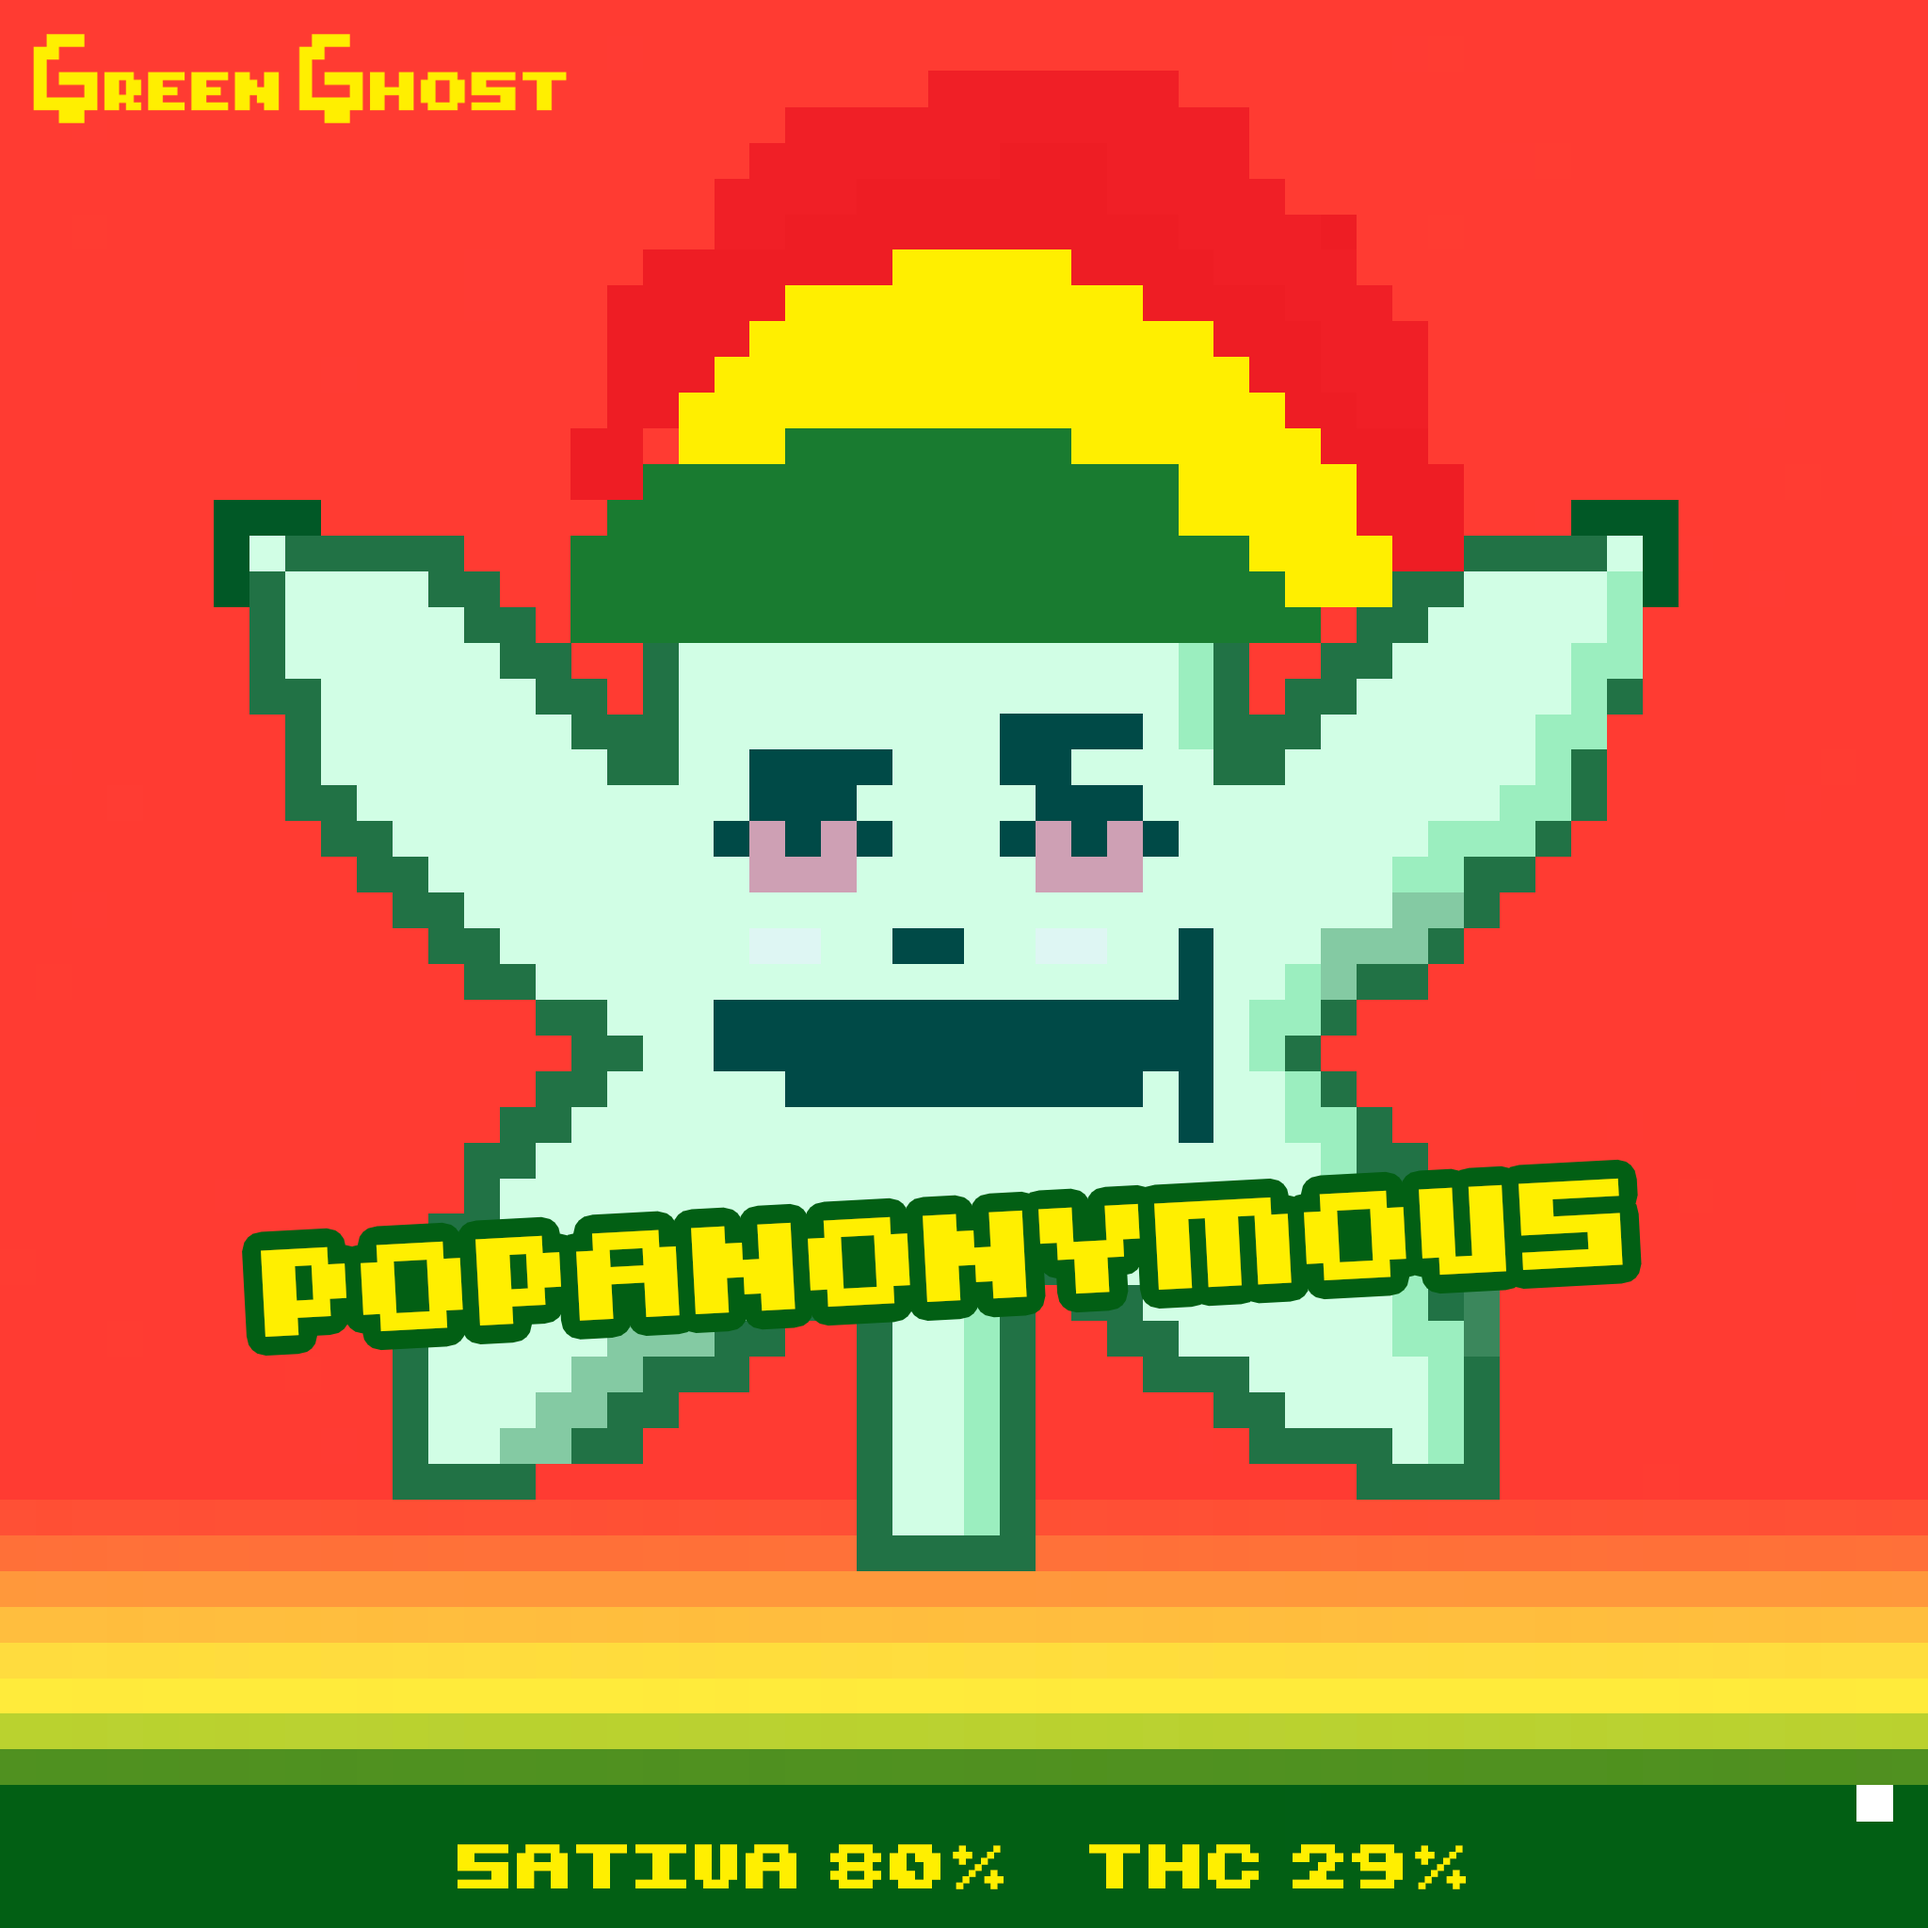
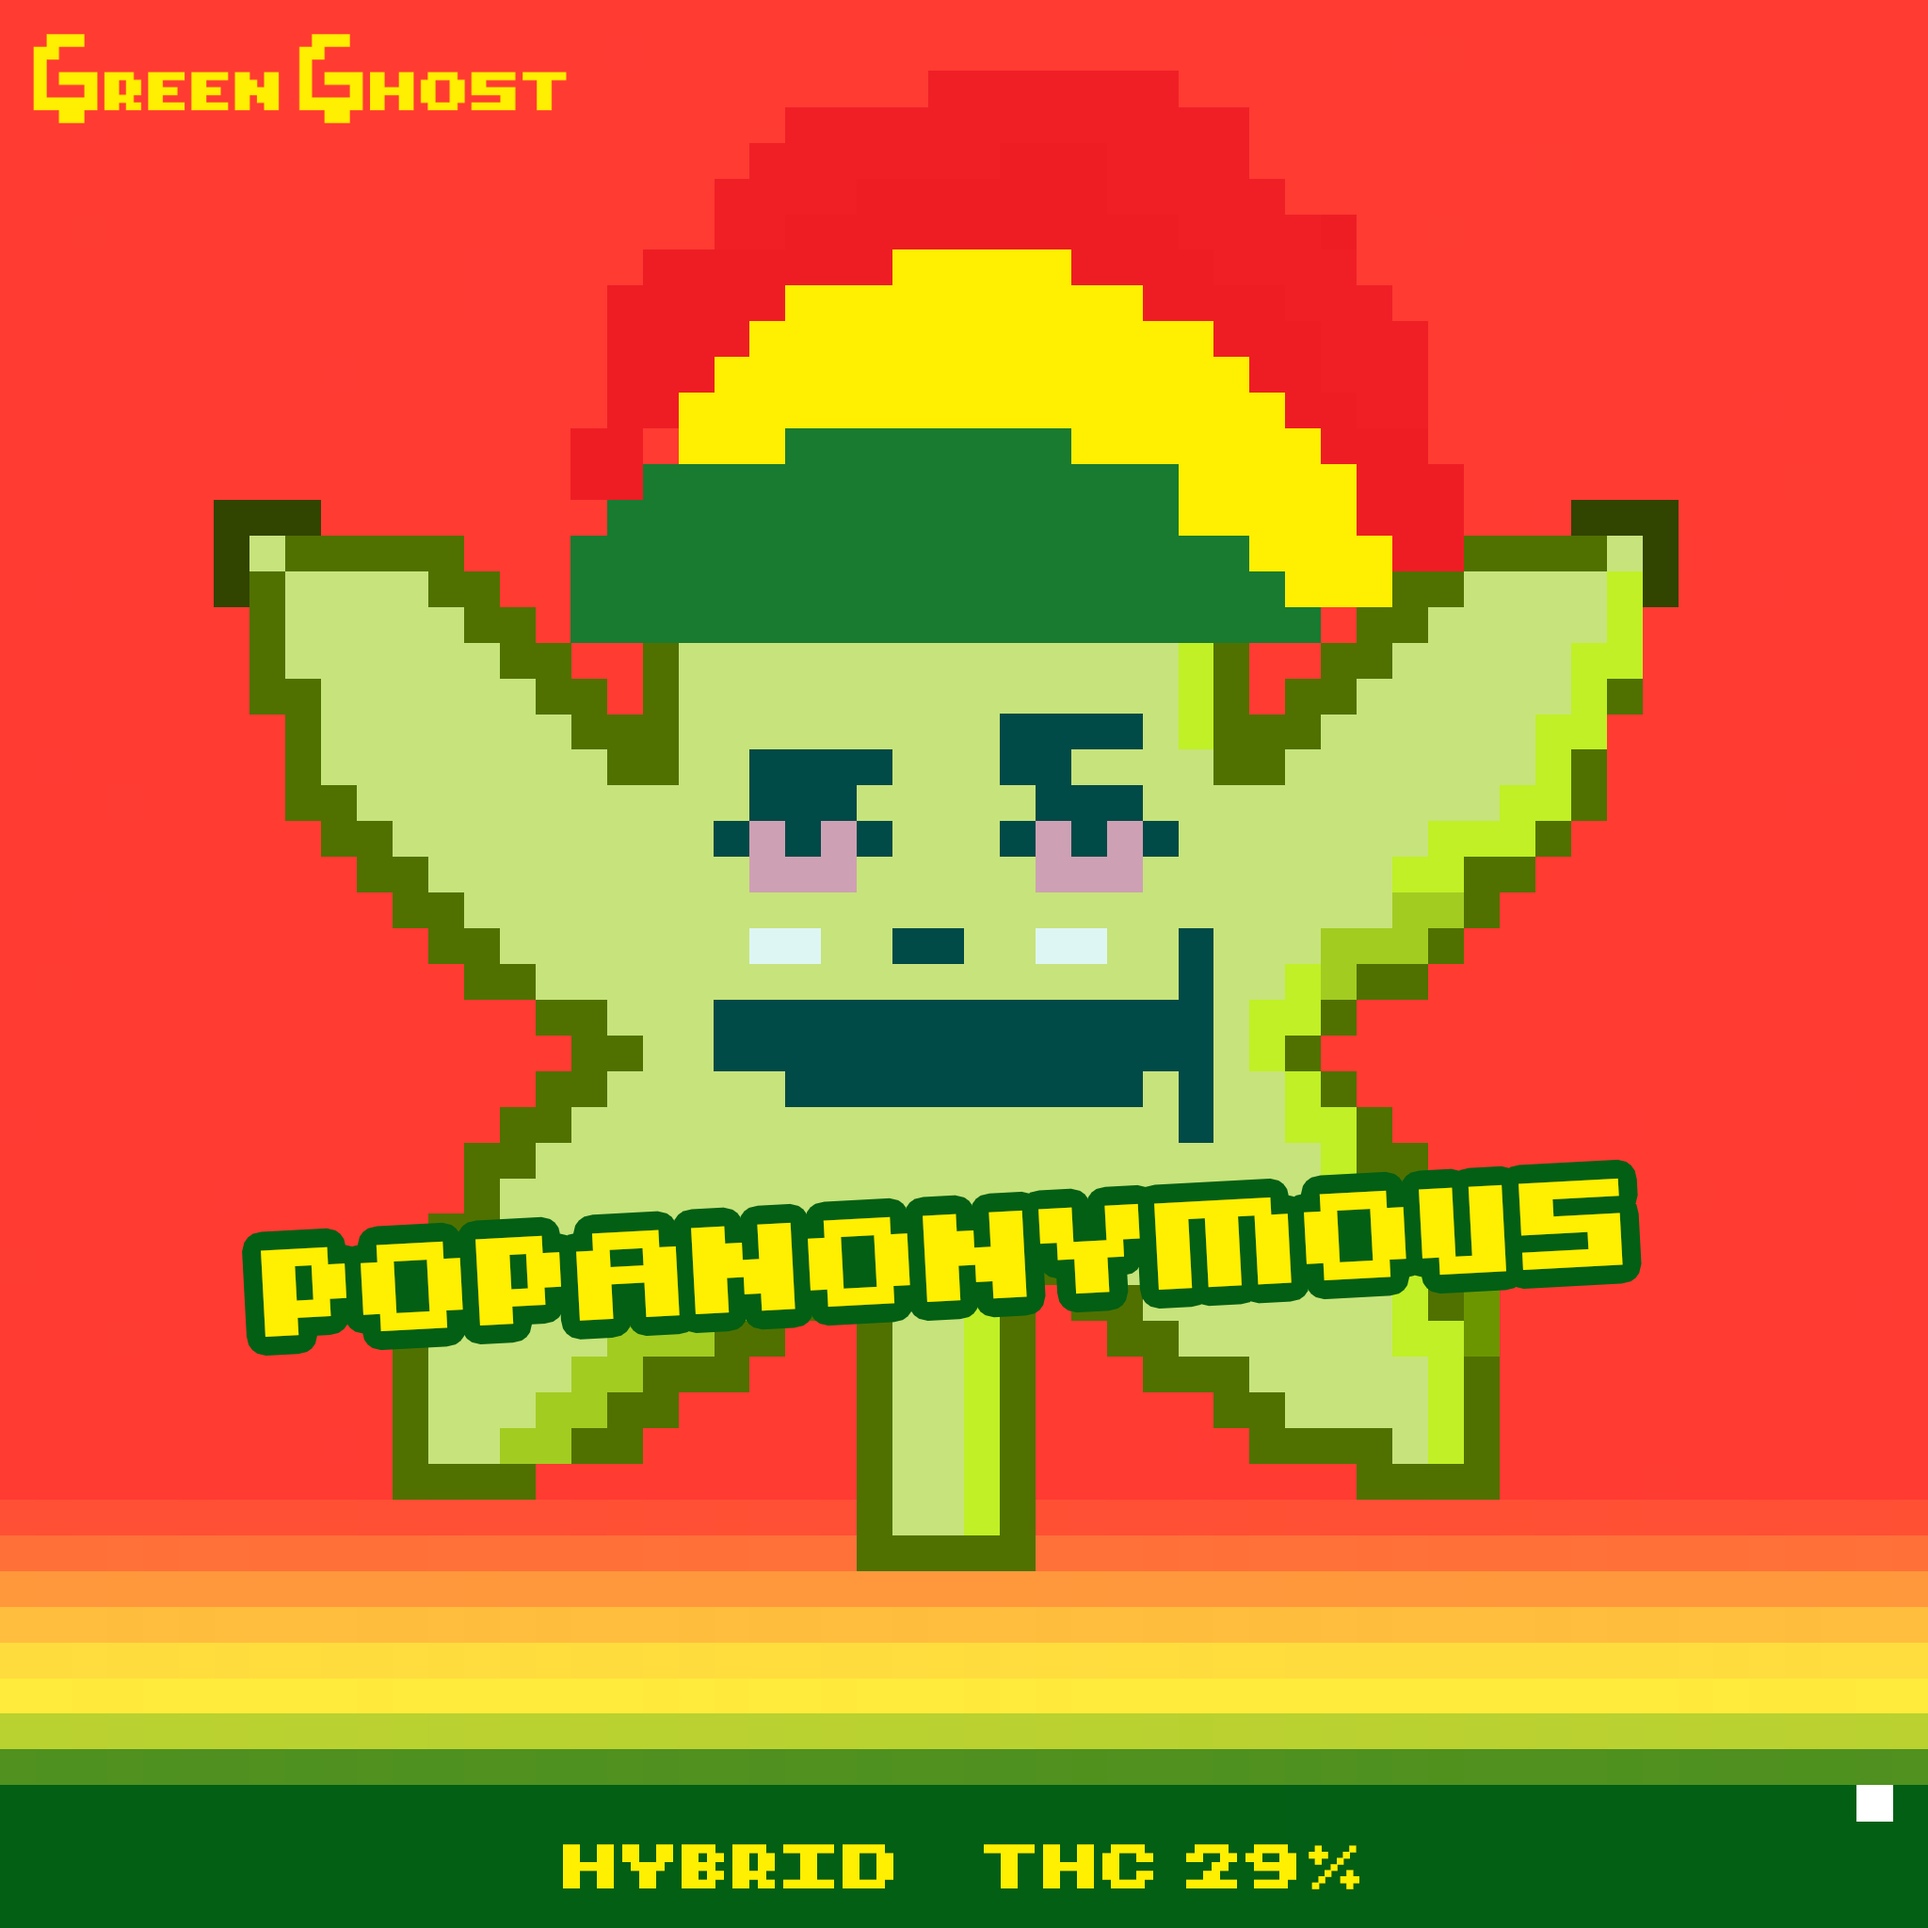
Update menu

diff --git a/config/buds.ts b/config/buds.ts
@@ -502,7 +502,7 @@ export const buds: Bud[] = [
     growerSlug: '',
     environment: 'Organic Indoor',
     grade: 'AAA Grade',
-    quantity: 50,
+    quantity: 0,
     origin: 'Phuket',
     description:
       'Runtz, also referred to as "Runtz OG," is a rare and highly sought-after hybrid marijuana strain created by the Cookies Fam by crossing Zkittlez with Gelato. It\'s recognized for its exceptional fruity flavor profile that mimics the aroma of sugary candy we all love. \n\n Its popularity has been rising steadily, and it was named Leafly Strain of the Year in 2020. According to growers, Runtz has resinous buds that range in color from deep purple to vibrant lime green. \n\n It boasts a smooth and creamy smoke that is easy to inhale. This strain is famous for its long-lasting uplifting effects and euphoric highs. Purple Caper Seeds also produced the same cross and marketed it as Gelato Zkittlez.',
@@ -548,10 +548,10 @@ export const buds: Bud[] = [
   {
     slug: 'popanonymous',
     name: 'Popanonymous',
-    price: 400,
-    dominance: 'Sativa',
-    indica: '40',
-    sativa: '60',
+    price: 300,
+    dominance: 'Hybrid',
+    indica: '50',
+    sativa: '50',
     THC: '29',
     CBD: '0',
     effects: 'Relaxed, Giggly, Aroused',
@@ -560,10 +560,10 @@ export const buds: Bud[] = [
     growerSlug: '',
     environment: 'Indoor',
     grade: 'AAAA Grade',
-    quantity: 0,
+    quantity: 50,
     origin: 'Phuket',
     description:
-      'Popanonymous is a potent sativa-dominant hybrid, boasting an impressive THC content of 29%. This strain is an unknown and unique cross of Gary Poppins, creating a powerful, energizing experience. With its strong lineage, Popanonymous delivers a combination of uplifting effects and rich flavors, making it a standout choice for sativa enthusiasts looking for both potency and a balanced, enjoyable high. \n\n Growers and users alike will appreciate Popanonymous for its resin-heavy buds, ideal for concentrates and extraction. The strain produces large, dense flowers coated in sticky trichomes, making it visually appealing and highly effective. Its robust growth structure also makes it a reliable strain for both indoor and outdoor cultivation, with generous yields and a relatively short flowering time. \n\n Popanonymous is celebrated for its complex flavor profile. Expect a refreshing burst of citrus and tropical fruit notes, followed by subtle earthy undertones. Its aromatic blend of sweet and earthy scents, combined with its energizing effects, make this strain perfect for daytime use, helping to keep you focused, creative, and motivated.',
+      'Popanonymous is a potent hybrid, boasting an impressive THC content of 29%. This strain is an unknown and unique cross of Gary Poppins, creating a powerful, energizing experience. With its strong lineage, Popanonymous delivers a combination of uplifting effects and rich flavors, making it a standout choice for sativa enthusiasts looking for both potency and a balanced, enjoyable high. \n\n Growers and users alike will appreciate Popanonymous for its resin-heavy buds, ideal for concentrates and extraction. The strain produces large, dense flowers coated in sticky trichomes, making it visually appealing and highly effective. Its robust growth structure also makes it a reliable strain for both indoor and outdoor cultivation, with generous yields and a relatively short flowering time. \n\n Popanonymous is celebrated for its complex flavor profile. Expect a refreshing burst of citrus and tropical fruit notes, followed by subtle earthy undertones. Its aromatic blend of sweet and earthy scents, combined with its energizing effects, make this strain perfect for daytime use, helping to keep you focused, creative, and motivated.',
     descSeo:
       'Popanonymous strain delivers 29% THC with uplifting, creative effects and sweet citrus flavors. Perfect for stress, depression, and fatigue relief.',
     images: [

diff --git a/pages/api/sitemap.ts b/pages/api/sitemap.ts
@@ -59,20 +59,19 @@ const generateSitemapXml = (urls: { loc: string; lastmod: string }[]) => {
 /**
  * API Handler for generating the sitemap dynamically.
  */
-export default async function handler(req: NextApiRequest, res: NextApiResponse) {
+export default async function handler(
+  req: NextApiRequest,
+  res: NextApiResponse
+) {
   try {
     const slugs = await fetchSlugs();
 
-    const staticUrls = [
-      '/',
-      '/about',
-      '/contact',
-      '/membership',
-      '/shop',
-    ].map((path) => ({
-      loc: `${BASE_URL}${path}`,
-      lastmod: new Date().toISOString(),
-    }));
+    const staticUrls = ['/', '/about', '/contact', '/membership', '/shop'].map(
+      (path) => ({
+        loc: `${BASE_URL}${path}`,
+        lastmod: new Date().toISOString(),
+      })
+    );
 
     const dynamicUrls = slugs.map((slug) => ({
       loc: `${BASE_URL}${slug}`,
